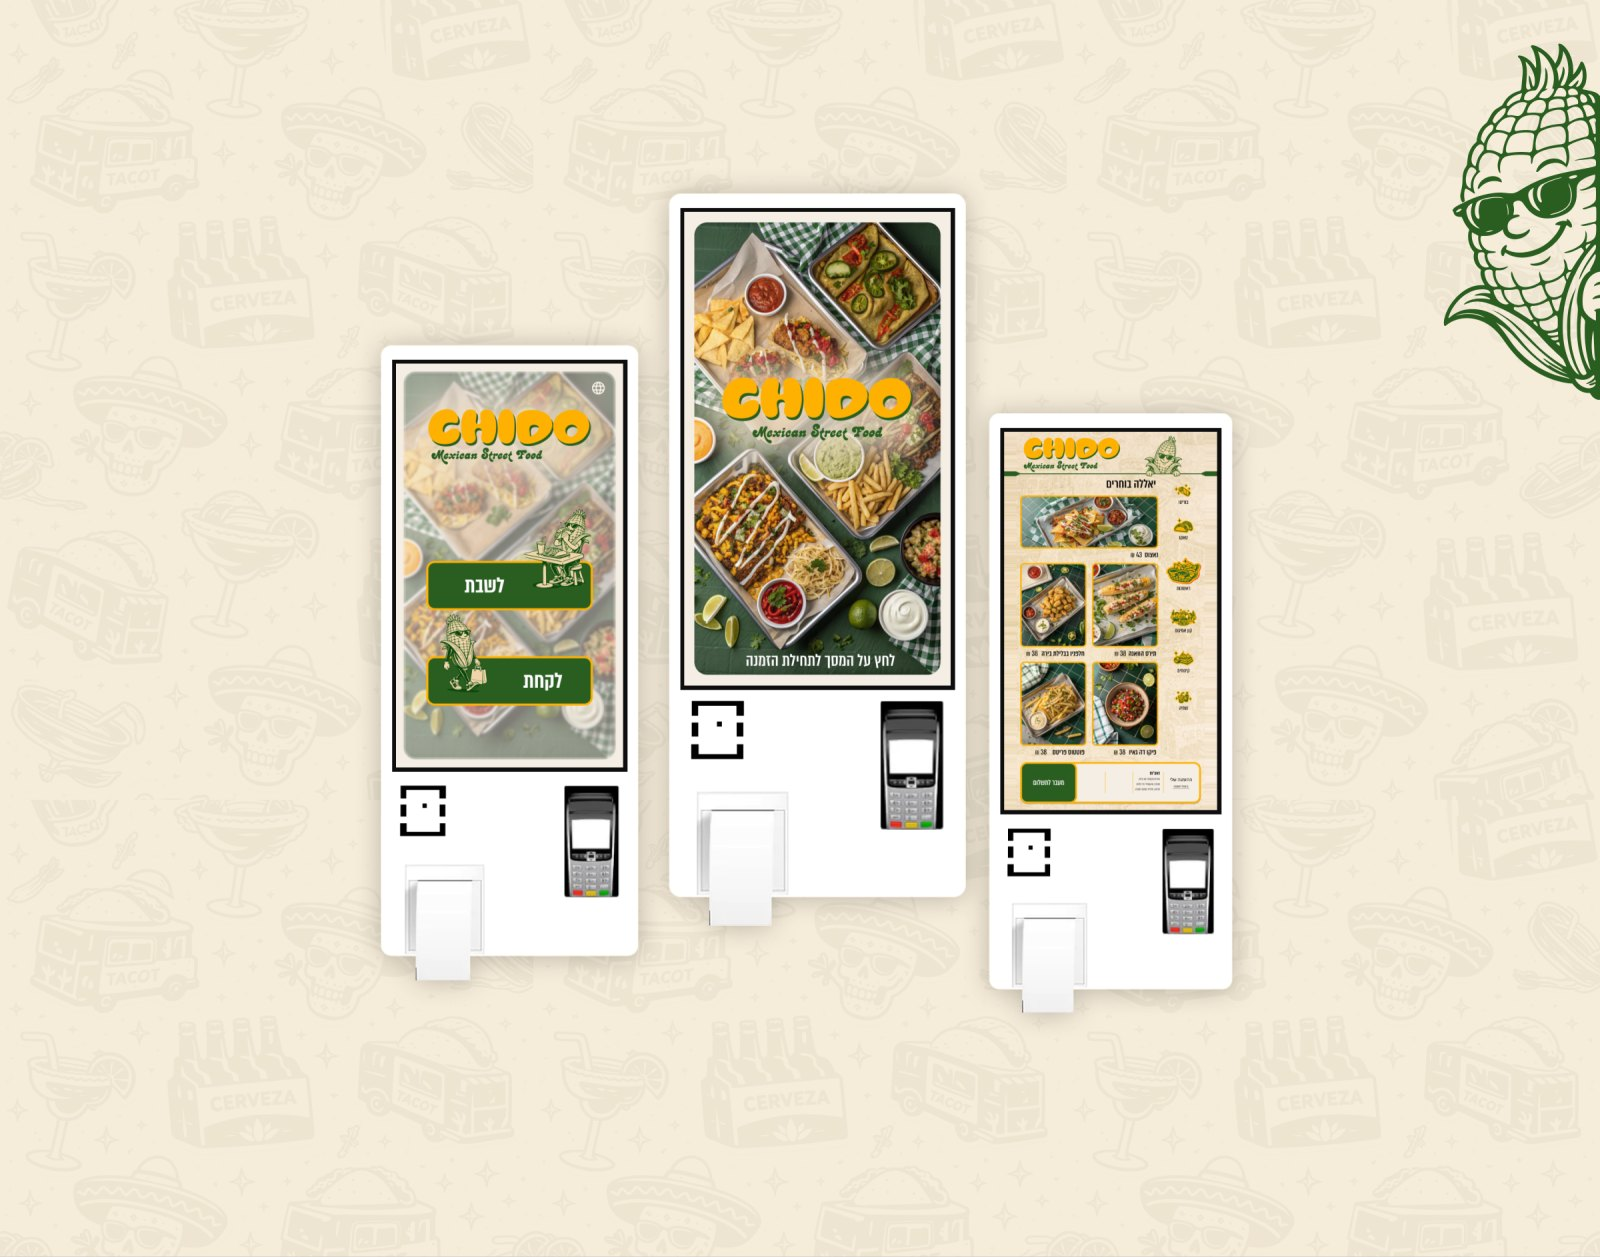
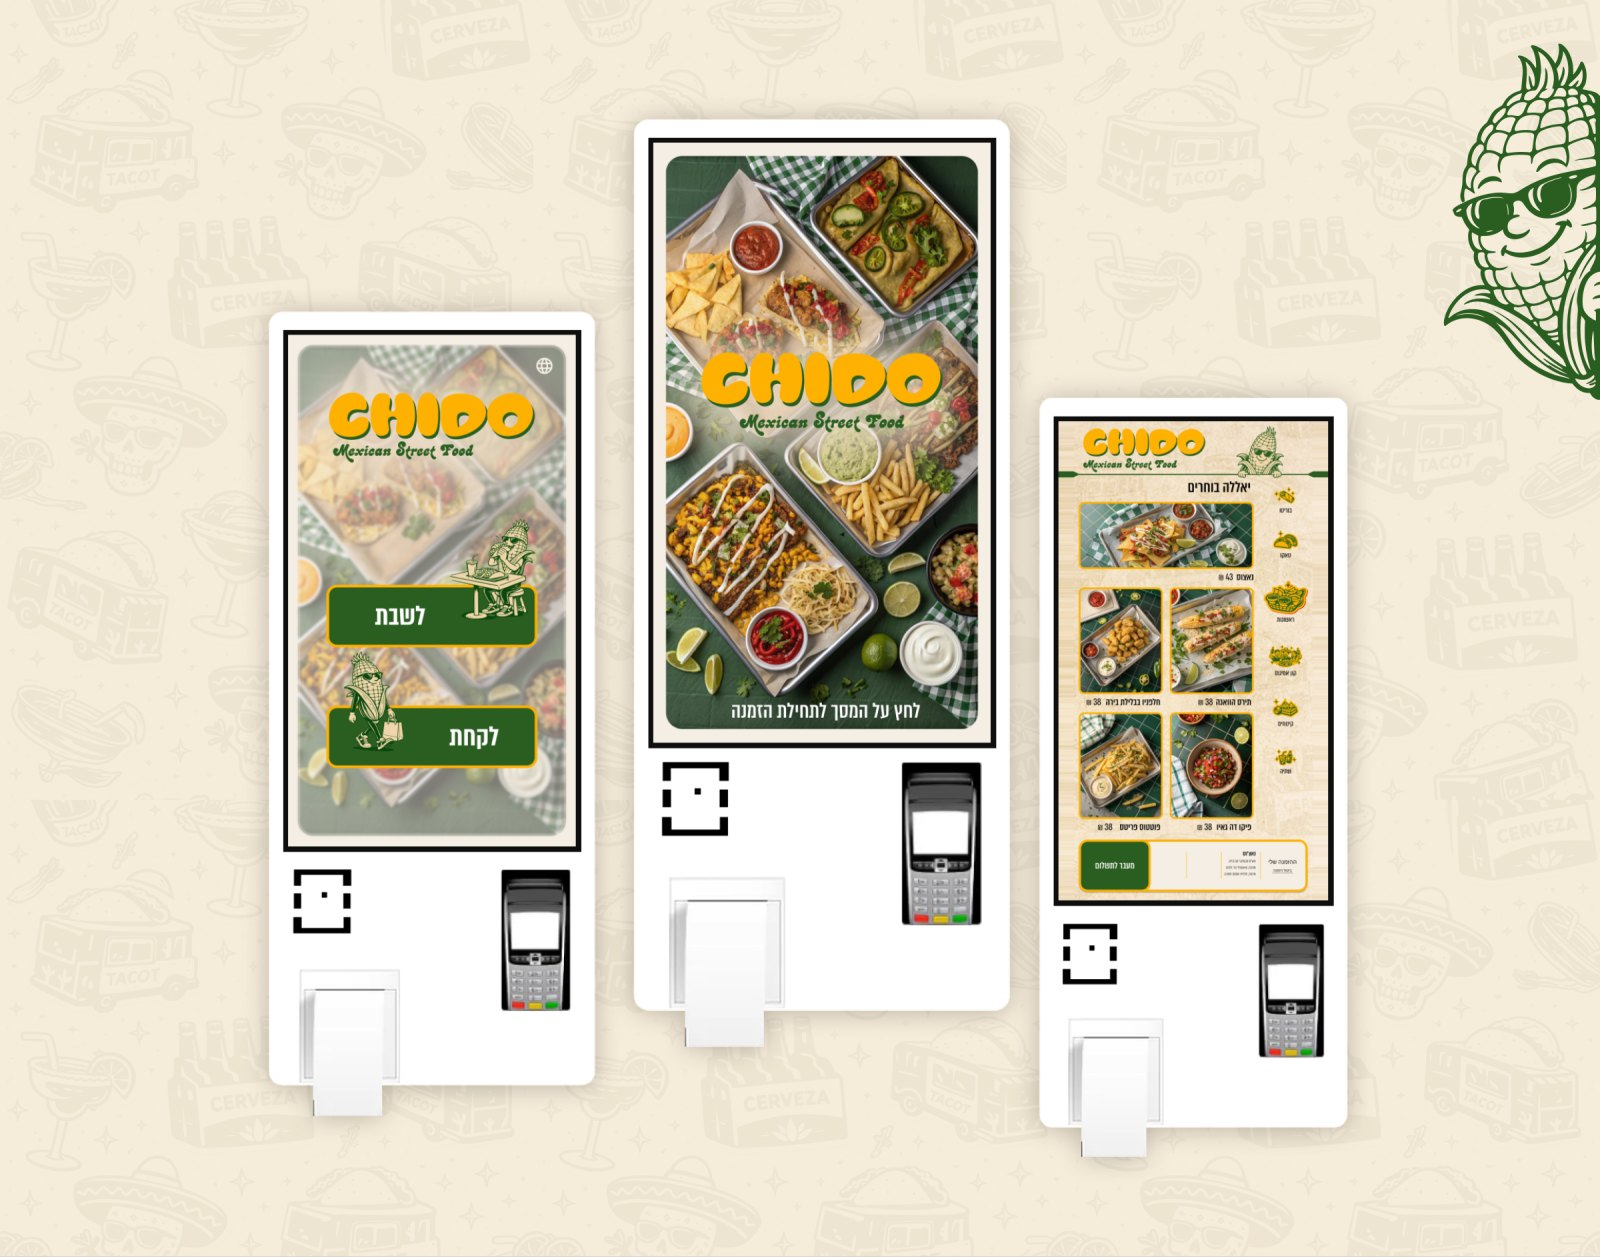
Chido: update card cover to the enlarged Frame 48

diff --git a/index.html b/index.html
@@ -144,7 +144,7 @@
       <a href="work-chido.html" class="project card">
         <div class="project-cover">
           <div class="thumb thumb-plain">
-            <img src="work-chido-cover.jpg" alt="Chido ordering flow shown on three self-order kiosks over the Chido pattern, with the corn mascot in the corner" class="project-cover-img" loading="lazy">
+            <img src="work-chido-cover.jpg?v=2" alt="Chido ordering flow shown on three self-order kiosks over the Chido pattern, with the corn mascot in the corner" class="project-cover-img" loading="lazy">
           </div>
         </div>
         <div class="project-body">
